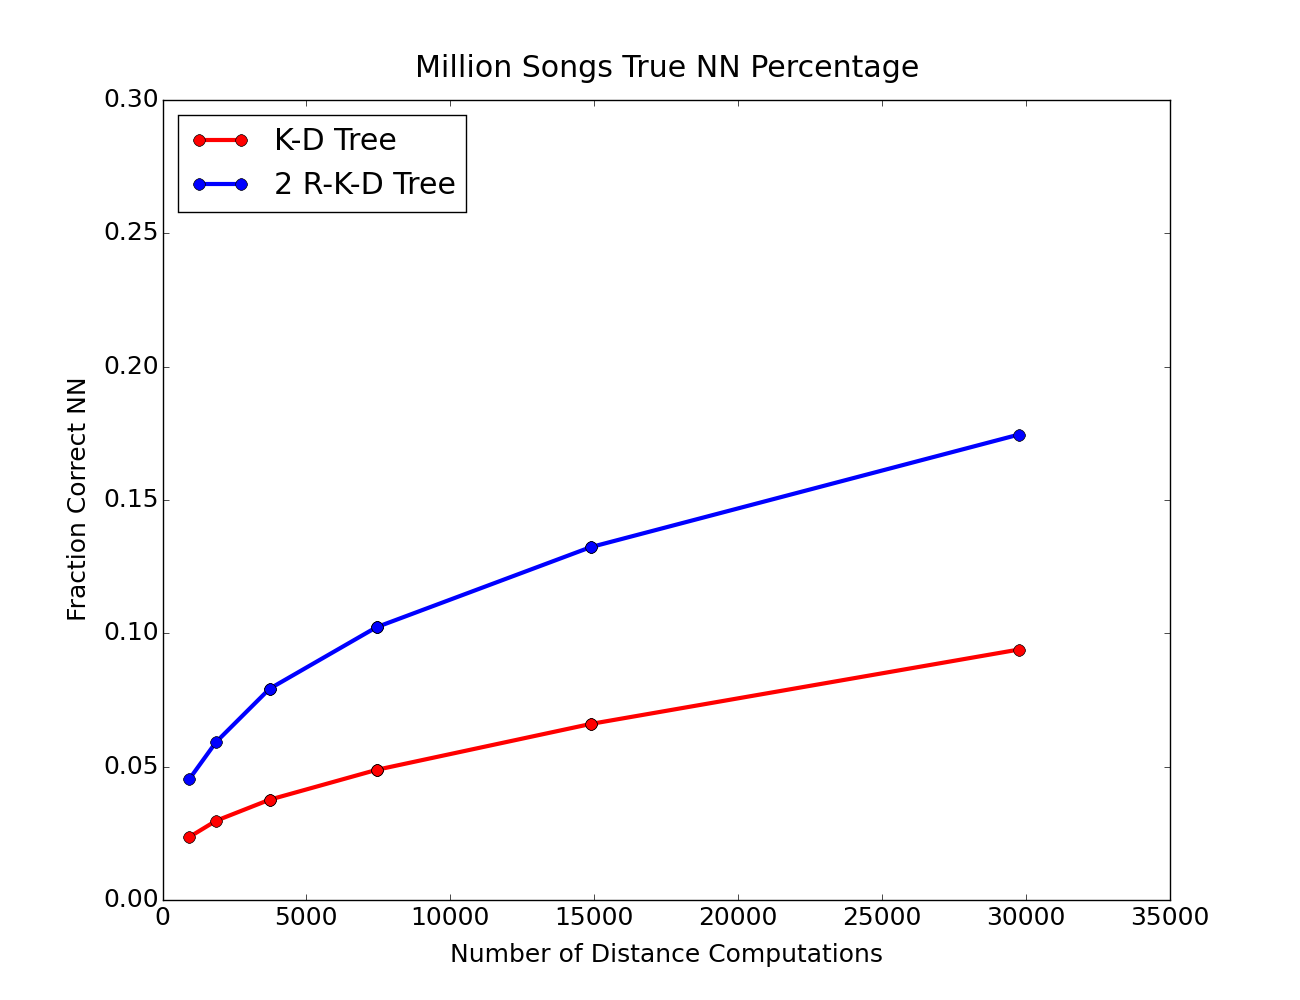
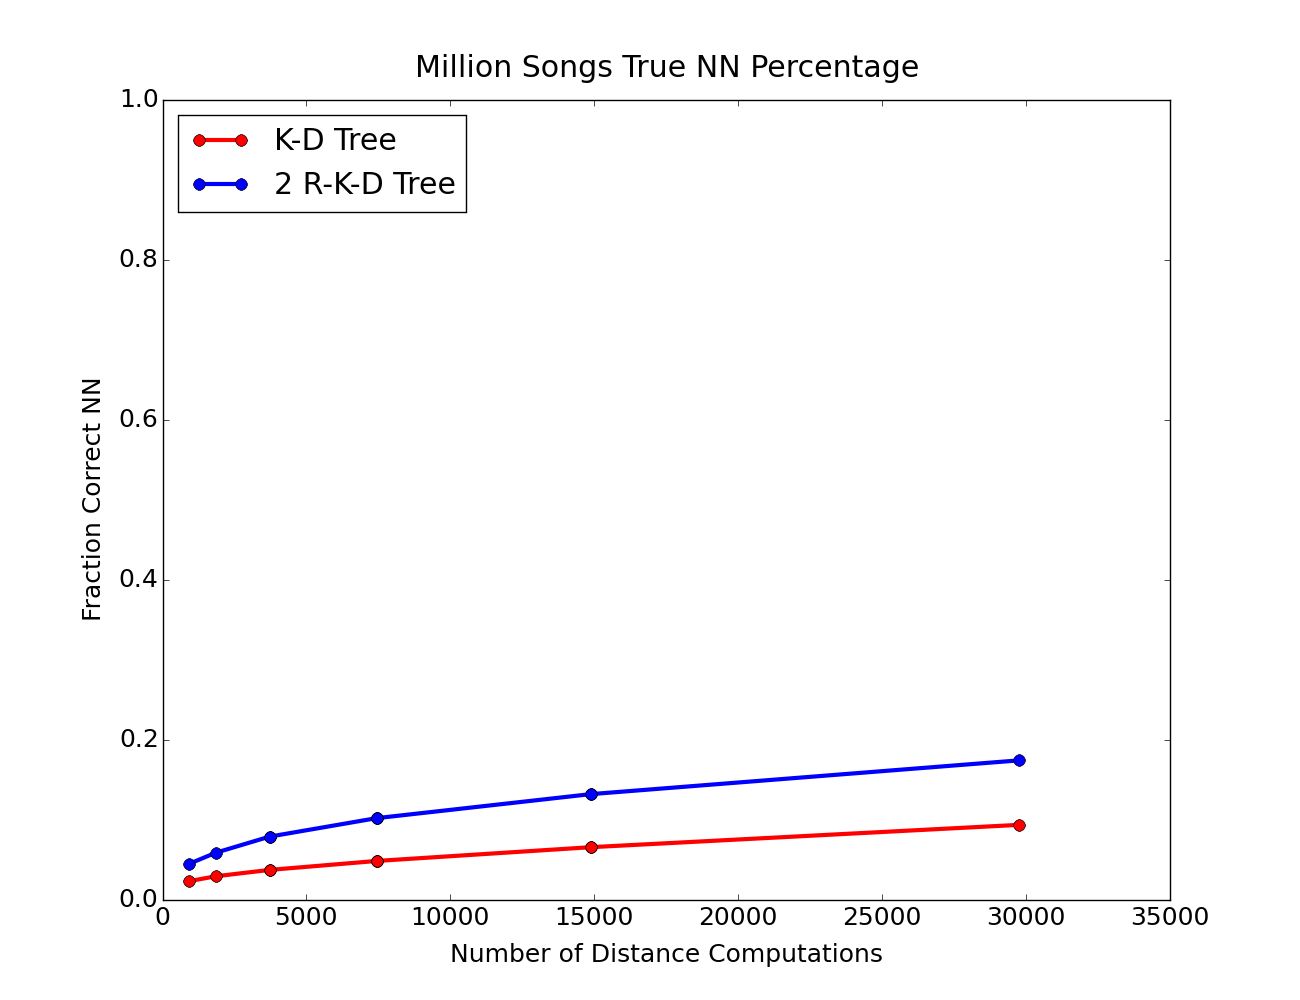
updated graphs
Updated songs and w2v graphs by changing scale of accuracy to (0,1) to
match other datasets.

diff --git a/output_data/pyplot.py b/output_data/pyplot.py
@@ -267,14 +267,14 @@ def songs():
 
 	data = "songs"
 	y_range = 35000
-	#kd(data,y_range,0.1,4)
-	#kd_pca(data,y_range,0.6,2)
-	#kd_pca_rkd(data,y_range,0.6,2)
-	#kd_rkd2(data,y_range,0.3,2)
-	#kd_rkd8(data,y_range,0.3,2)
-	#kd_pca_rkd_rp(data,y_range,0.6,2)
-	#kd_rp2(data,y_range,0.3,2)
-	#kd_rp8(data,y_range,0.3,2)
+	#kd(data,y_range,1,2)
+	#kd_pca(data,y_range,1,2)
+	#kd_pca_rkd(data,y_range,1,2)
+	#kd_rkd2(data,y_range,1,2)
+	#kd_rkd8(data,y_range,1,2)
+	#kd_pca_rkd_rp(data,y_range,1,2)
+	#kd_rp2(data,y_range,1,2)
+	#kd_rp8(data,y_range,1,2)
 	#kd_pca_rkd_rp_v2(data,y_range,1,2)
 	#rp_v2(data,y_range,1,2)
 	#rkd_rp_v2(data,y_range,1,2)
@@ -367,14 +367,14 @@ def w2v():
 
 	data = "w2v"
 	y_range = 100000
-	#kd(data,y_range,0.5,4)
-	#kd_pca(data,y_range,0.5,4)
-	#kd_pca_rkd(data,y_range,0.5,2)
-	#kd_rkd2(data,y_range,0.5,2)
-	#kd_rkd8(data,y_range,0.5,2)
+	#kd(data,y_range,1,4)
+	#kd_pca(data,y_range,1,4)
+	#kd_pca_rkd(data,y_range,1,2)
+	#kd_rkd2(data,y_range,1,2)
+	#kd_rkd8(data,y_range,1,2)
 	#kd_pca_rkd_rp(data,y_range,1,2)
-	#kd_rp2(data,y_range,0.5,2)
-	#kd_rp8(data,y_range,0.5,2)
+	#kd_rp2(data,y_range,1,2)
+	#kd_rp8(data,y_range,1,2)
 	#kd_pca_rkd_rp_v2(data,y_range,1,2)
 	#rp_v2(data,y_range,1,2)
 	#rkd_rp_v2(data,y_range,1,2)
@@ -408,5 +408,5 @@ def mnist():
 	#spill_vspill(data,y_range,1,4)
 	#rkd_spill_vspill(data,y_range,1,4)
 
-big5()
+songs()
 
